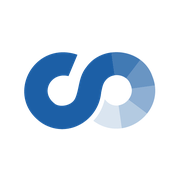
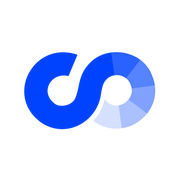
Nova paleta Acorly: azul #0043ff com complementares ciano, verde, magenta e laranja
Logo e ícones recoloridos; site, sistema, e-mails, PDFs e artes dos posts na nova cor.

Claude-Session: https://claude.ai/code/session_01VvQn5qUHzGNJDi8bKtyQpx

Changed region(s): [[0.1111, 0.2778, 0.8611, 0.7222]]

diff --git a/web/src/styles.css b/web/src/styles.css
@@ -1,8 +1,10 @@
 :root {
-  --navy: #0b2545; --navy-2: #13315c; --azul: #1d5fa7; --azul-claro: #e8f0fb;
+  --navy: #001452; --navy-2: #00227f; --azul: #0043ff; --azul-claro: #e6edff;
   --bg: #f5f7fa; --card: #ffffff; --borda: #e2e8f0; --borda-forte: #cbd5e1;
   --texto: #1f2937; --texto-2: #4b5563; --texto-3: #6b7280;
-  --ok: #15803d; --ok-bg: #e7f6ec; --alerta: #b45309; --alerta-bg: #fdf3e2; --critico: #b91c1c; --critico-bg: #fdecec; --info: #1d5fa7; --info-bg: #e8f0fb;
+  --ok: #15803d; --ok-bg: #e7f6ec; --alerta: #b45309; --alerta-bg: #fdf3e2; --critico: #b91c1c; --critico-bg: #fdecec; --info: #0043ff; --info-bg: #e6edff;
+  --ciano: #31d6ff; --verde-vivo: #31ff5e; --magenta: #ff31ff; --laranja: #ff8c00;
+  --faixa-marca: linear-gradient(90deg, #0043ff 0%, #31d6ff 30%, #31ff5e 52%, #ff31ff 76%, #ff8c00 100%);
   --raio: 10px; --sombra: 0 1px 2px rgba(16, 24, 40, .06), 0 1px 3px rgba(16, 24, 40, .08);
   --fonte: system-ui, -apple-system, "Segoe UI", Roboto, "Helvetica Neue", Arial, sans-serif;
   color-scheme: light;
@@ -41,10 +43,10 @@ p { margin: 0 0 8px; }
 
 /* Layout */
 .app { display: grid; grid-template-columns: 248px minmax(0, 1fr); min-height: 100%; }
-.lateral { background: var(--navy); color: #cfd8e6; padding: 16px 12px; position: sticky; top: 0; height: 100vh; overflow-y: auto; display: flex; flex-direction: column; gap: 16px; }
+.lateral { background: var(--navy); color: #ccd7ff; padding: 16px 12px; position: sticky; top: 0; height: 100vh; overflow-y: auto; display: flex; flex-direction: column; gap: 16px; }
 .lateral nav { display: flex; flex-direction: column; gap: 2px; }
-.lateral .secao { font-size: 11px; text-transform: uppercase; letter-spacing: .06em; color: #8fa3c0; margin: 12px 10px 4px; }
-.lateral a { color: #dbe4f0; padding: 8px 10px; border-radius: 8px; display: flex; align-items: center; justify-content: space-between; gap: 8px; }
+.lateral .secao { font-size: 11px; text-transform: uppercase; letter-spacing: .06em; color: #8fa6e6; margin: 12px 10px 4px; }
+.lateral a { color: #dde6ff; padding: 8px 10px; border-radius: 8px; display: flex; align-items: center; justify-content: space-between; gap: 8px; }
 .lateral a:hover { background: var(--navy-2); text-decoration: none; }
 .lateral a.ativo { background: var(--azul); color: #fff; }
 .principal { display: flex; flex-direction: column; min-width: 0; }
@@ -78,7 +80,7 @@ p { margin: 0 0 8px; }
 .btn:hover { background: #f8fafc; text-decoration: none; }
 .btn:disabled { opacity: .55; cursor: not-allowed; }
 .btn.prim { background: var(--azul); border-color: var(--azul); color: #fff; }
-.btn.prim:hover { background: #174f8c; }
+.btn.prim:hover { background: #0036cc; }
 .btn.ok { background: var(--ok); border-color: var(--ok); color: #fff; }
 .btn.perigo { background: #fff; border-color: #f1b4b4; color: var(--critico); }
 .btn.perigo.cheio { background: var(--critico); color: #fff; border-color: var(--critico); }
@@ -95,7 +97,7 @@ p { margin: 0 0 8px; }
 .aviso.ok { background: var(--ok-bg); border-color: #b7e2c4; color: #14532d; }
 .aviso.alerta { background: var(--alerta-bg); border-color: #f3d39b; color: #78350f; }
 .aviso.critico { background: var(--critico-bg); border-color: #f5baba; color: #7f1d1d; }
-.aviso.info { background: var(--info-bg); border-color: #bcd3f0; color: #0b3a6e; }
+.aviso.info { background: var(--info-bg); border-color: #b3c6ff; color: #002a99; }
 
 /* Formulários */
 .campo { display: flex; flex-direction: column; gap: 4px; min-width: 0; }
@@ -104,7 +106,7 @@ p { margin: 0 0 8px; }
 .campo .erro { font-size: 12px; color: var(--critico); }
 input, select, textarea { font: inherit; color: inherit; height: 36px; border: 1px solid var(--borda-forte); border-radius: 8px; padding: 0 10px; background: #fff; width: 100%; min-width: 0; }
 textarea { height: auto; min-height: 80px; padding: 8px 10px; resize: vertical; }
-input:focus, select:focus, textarea:focus { outline: 2px solid #9ec1ea; border-color: var(--azul); }
+input:focus, select:focus, textarea:focus { outline: 2px solid #80a1ff; border-color: var(--azul); }
 input[type=checkbox], input[type=radio] { width: 16px; height: 16px; accent-color: var(--azul); }
 .check { display: flex; gap: 8px; align-items: flex-start; font-weight: 400; color: var(--texto); }
 .check input { margin-top: 2px; flex: none; }
@@ -157,7 +159,7 @@ td.num, th.num { text-align: right; font-variant-numeric: tabular-nums; white-sp
 /* Notificações */
 .pop { position: absolute; right: 0; top: 44px; width: min(380px, calc(100vw - 24px)); background: #fff; border: 1px solid var(--borda); border-radius: 10px; box-shadow: 0 12px 30px rgba(0, 0, 0, .15); max-height: 70vh; overflow: auto; z-index: 50; }
 .pop .item { padding: 10px 14px; border-bottom: 1px solid var(--borda); cursor: pointer; }
-.pop .item.nova { background: #f5f9ff; }
+.pop .item.nova { background: #f2f6ff; }
 .pop .item:hover { background: #f1f5f9; }
 
 /* Linha do tempo */
@@ -167,7 +169,7 @@ td.num, th.num { text-align: right; font-variant-numeric: tabular-nums; white-sp
 
 /* Telas de acesso */
 .acesso { min-height: 100%; display: grid; grid-template-columns: 1fr 1fr; }
-.acesso .lado { background: linear-gradient(160deg, var(--navy), #1a4a86); color: #dbe4f0; padding: 48px; display: flex; flex-direction: column; justify-content: space-between; }
+.acesso .lado { background: linear-gradient(160deg, var(--navy), #0036cc); color: #dde6ff; padding: 48px; display: flex; flex-direction: column; justify-content: space-between; }
 .acesso .lado h2 { color: #fff; font-size: 26px; line-height: 1.25; margin: 0 0 12px; }
 .acesso .lado ul { padding-left: 18px; margin: 0; display: grid; gap: 8px; }
 .acesso .form { display: grid; place-items: center; padding: 32px 16px; }
@@ -202,15 +204,18 @@ td.num, th.num { text-align: right; font-variant-numeric: tabular-nums; white-sp
 .site-nav a { color: var(--texto-2); font-weight: 600; font-size: 14px; }
 .site-nav a:hover { color: var(--azul); text-decoration: none; }
 .site-menu { display: none; }
-.site-hero { background: linear-gradient(160deg, var(--navy) 0%, #143a6b 60%, #1a4a86 100%); color: #dbe4f0; }
+.site-hero { background: radial-gradient(circle at 88% 12%, rgba(49, 214, 255, .28), transparent 42%), radial-gradient(circle at 8% 100%, rgba(255, 49, 255, .16), transparent 40%), linear-gradient(160deg, var(--navy) 0%, #0030b8 55%, #0043ff 100%); color: #dde6ff; }
+.site-topo::after { content: ''; position: absolute; left: 0; right: 0; bottom: -1px; height: 3px; background: var(--faixa-marca); }
+.lateral { border-top: 4px solid transparent; border-image: var(--faixa-marca) 1; }
+.acesso .lado { border-top: 4px solid transparent; border-image: var(--faixa-marca) 1; }
 .site-hero-in { display: grid; grid-template-columns: minmax(0, 1.1fr) minmax(0, .9fr); gap: 48px; align-items: center; padding-block: 72px 80px; }
 .site-hero h1 { color: #fff; font-size: clamp(30px, 4.4vw, 46px); line-height: 1.12; letter-spacing: -.02em; margin: 14px 0 18px; text-wrap: balance; }
 .site-hero p { font-size: 17px; line-height: 1.6; max-width: 58ch; margin: 0 0 26px; }
-.site-selo { display: inline-block; background: rgba(255, 255, 255, .12); color: #fff; border: 1px solid rgba(255, 255, 255, .25); padding: 5px 12px; border-radius: 999px; font-size: 12px; font-weight: 700; letter-spacing: .04em; text-transform: uppercase; }
+.site-selo { display: inline-block; background: rgba(49, 214, 255, .14); color: #fff; border: 1px solid rgba(49, 214, 255, .55); padding: 5px 12px; border-radius: 999px; font-size: 12px; font-weight: 700; letter-spacing: .04em; text-transform: uppercase; }
 .site-btn-grande { height: 46px; padding: 0 22px; font-size: 15px; }
 .site-btn-claro { background: transparent; color: #fff; border-color: rgba(255, 255, 255, .5); }
 .site-btn-claro:hover { background: rgba(255, 255, 255, .1); }
-.site-nota { font-size: 13px !important; color: #a9bad3; margin-top: 18px !important; }
+.site-nota { font-size: 13px !important; color: #aabdf5; margin-top: 18px !important; }
 .site-previa { background: #fff; border-radius: 14px; box-shadow: 0 30px 60px rgba(0, 0, 0, .35); overflow: hidden; color: var(--texto); }
 .site-previa-barra { display: flex; align-items: center; gap: 6px; padding: 10px 14px; background: #eef2f7; border-bottom: 1px solid var(--borda); }
 .site-previa-barra span { width: 10px; height: 10px; border-radius: 50%; background: #cbd5e1; }
@@ -226,7 +231,7 @@ td.num, th.num { text-align: right; font-variant-numeric: tabular-nums; white-sp
 .site-previa-lista li:last-child { border-bottom: 0; }
 .site-secao { padding-block: 80px; }
 .site-secao-alt { background: var(--bg); }
-.site-secao-escura { background: var(--navy); color: #cfd8e6; }
+.site-secao-escura { background: var(--navy); color: #ccd7ff; }
 .site-secao-escura .site-titulo, .site-secao-escura h3 { color: #fff; }
 .site-titulo { font-size: clamp(24px, 3vw, 32px); letter-spacing: -.015em; margin: 0 0 12px; text-wrap: balance; }
 .site-sub { color: var(--texto-2); font-size: 16px; max-width: 64ch; margin: 0 0 32px; line-height: 1.6; }
@@ -244,7 +249,7 @@ td.num, th.num { text-align: right; font-variant-numeric: tabular-nums; white-sp
 .site-check { list-style: none; padding: 0; margin: 4px 0 8px; display: grid; gap: 8px; }
 .site-check li { padding-left: 24px; position: relative; line-height: 1.45; }
 .site-check li::before { content: '✓'; position: absolute; left: 0; color: var(--ok); font-weight: 800; }
-.site-video-player { width: 100%; max-width: 880px; aspect-ratio: 16 / 9; border-radius: 12px; border: 1px solid var(--borda); box-shadow: 0 12px 30px rgba(11, 37, 69, .12); background: #0b2545; margin: 8px auto 12px; display: block; }
+.site-video-player { width: 100%; max-width: 880px; aspect-ratio: 16 / 9; border-radius: 12px; border: 1px solid var(--borda); box-shadow: 0 12px 30px rgba(0, 20, 82, .12); background: #001452; margin: 8px auto 12px; display: block; }
 .conteudo-card { text-align: left; display: flex; flex-direction: column; gap: 8px; cursor: pointer; font: inherit; color: inherit; border: 1px solid var(--borda); }
 .conteudo-card:hover { border-color: var(--azul); }
 .conteudo-previas { display: flex; gap: 10px; overflow-x: auto; padding-bottom: 6px; }
@@ -255,8 +260,8 @@ td.num, th.num { text-align: right; font-variant-numeric: tabular-nums; white-sp
 .site-planos { display: grid; grid-template-columns: repeat(auto-fit, minmax(230px, 1fr)); gap: 20px; align-items: stretch; }
 .site-plano { position: relative; }
 .site-plano .btn { margin-top: auto; }
-.site-plano.recomendado { border: 2px solid var(--azul); box-shadow: 0 12px 30px rgba(29, 95, 167, .15); }
-.site-selo-plano { position: absolute; top: -12px; left: 24px; background: var(--azul); color: #fff; font-size: 12px; font-weight: 700; padding: 3px 10px; border-radius: 999px; }
+.site-plano.recomendado { border: 2px solid var(--azul); box-shadow: 0 12px 30px rgba(0, 67, 255, .15); }
+.site-selo-plano { position: absolute; top: -12px; left: 24px; background: var(--laranja); color: #1a1200; font-size: 12px; font-weight: 700; padding: 3px 10px; border-radius: 999px; }
 .site-valor { font-size: 32px; font-weight: 800; letter-spacing: -.02em; font-variant-numeric: tabular-nums; }
 .site-valor small { font-size: 14px; font-weight: 500; color: var(--texto-3); }
 .site-nota-centro { text-align: center; color: var(--texto-3); margin-top: 24px; }

diff --git a/src/core/emailComercial.js b/src/core/emailComercial.js
@@ -24,7 +24,7 @@ export function renderizarEmailComercial({ corpo, urlBase = '', rodape = '', sai
     if (!l) { fechaLista(); texto.push(''); continue; }
     if (l.startsWith('## ')) {
       fechaLista();
-      html.push(`<h2 style="font-size:17px;color:#0b2545;margin:22px 0 10px">${inline(l.slice(3))}</h2>`);
+      html.push(`<h2 style="font-size:17px;color:#001452;margin:22px 0 10px">${inline(l.slice(3))}</h2>`);
       texto.push(l.slice(3).toUpperCase());
     } else if (l.startsWith('- ')) {
       fechaParagrafo();
@@ -34,8 +34,8 @@ export function renderizarEmailComercial({ corpo, urlBase = '', rodape = '', sai
       fechaLista();
       const [, tipo, rotulo, url] = botao;
       html.push(tipo === 'botao'
-        ? `<p style="margin:18px 0"><a href="${esc(url.trim())}" style="background:#1d5fa7;color:#fff;padding:12px 22px;border-radius:8px;text-decoration:none;font-weight:bold;display:inline-block">${esc(rotulo.trim())}</a></p>`
-        : `<p style="margin:0 0 14px"><a href="${esc(url.trim())}" style="color:#1d5fa7;font-weight:bold">${esc(rotulo.trim())} →</a></p>`);
+        ? `<p style="margin:18px 0"><a href="${esc(url.trim())}" style="background:#0043ff;color:#fff;padding:12px 22px;border-radius:8px;text-decoration:none;font-weight:bold;display:inline-block">${esc(rotulo.trim())}</a></p>`
+        : `<p style="margin:0 0 14px"><a href="${esc(url.trim())}" style="color:#0043ff;font-weight:bold">${esc(rotulo.trim())} →</a></p>`);
       texto.push(`${rotulo.trim()}: ${url.trim()}`);
     } else {
       if (lista) fechaLista();
@@ -48,7 +48,8 @@ export function renderizarEmailComercial({ corpo, urlBase = '', rodape = '', sai
   const corpoHtml = `<!doctype html><html><body style="margin:0;background:#f5f7fa;font-family:Arial,Helvetica,sans-serif;color:#1f2937">
 <table width="100%" cellpadding="0" cellspacing="0"><tr><td align="center" style="padding:24px">
 <table width="620" cellpadding="0" cellspacing="0" style="max-width:620px;background:#fff;border-radius:12px;overflow:hidden;border:1px solid #e2e8f0">
-<tr><td style="background:linear-gradient(135deg,#0b2545,#1d5fa7);background-color:#0b2545;color:#fff;padding:20px 28px">${logo}</td></tr>
+<tr><td style="background:linear-gradient(135deg,#001452,#0043ff);background-color:#001452;color:#fff;padding:20px 28px">${logo}</td></tr>
+<tr><td style="height:4px;line-height:4px;font-size:0;background:#0043ff;background-image:linear-gradient(90deg,#0043ff,#31d6ff,#31ff5e,#ff31ff,#ff8c00)">&nbsp;</td></tr>
 <tr><td style="padding:26px 28px">${html.join('\n')}</td></tr>
 <tr><td style="padding:14px 28px;font-size:11px;color:#6b7280;border-top:1px solid #e2e8f0">${esc(rodape)}${sair ? `<br><a href="${esc(sair)}" style="color:#6b7280">Não quero mais receber e-mails comerciais da Acorly</a>` : ''}</td></tr>
 </table></td></tr></table></body></html>`;

diff --git a/src/server/email.js b/src/server/email.js
@@ -54,10 +54,11 @@ export function criarEmail({ config, transporte, urlBase = '', env = process.env
     const html = `<!doctype html><html><body style="margin:0;background:#f5f7fa;font-family:Arial,Helvetica,sans-serif;color:#1f2937">
 <table width="100%" cellpadding="0" cellspacing="0"><tr><td align="center" style="padding:24px">
 <table width="560" cellpadding="0" cellspacing="0" style="background:#fff;border-radius:10px;overflow:hidden;border:1px solid #e2e8f0">
-<tr><td style="background:#0b2545;color:#fff;padding:16px 24px;font-weight:bold;font-size:16px">${urlBase ? `<img src="${urlBase}/email-logo.png" alt="Acorly" height="32" style="display:block;height:32px;border:0">` : 'Acorly'}</td></tr>
+<tr><td style="background:#001452;color:#fff;padding:16px 24px;font-weight:bold;font-size:16px">${urlBase ? `<img src="${urlBase}/email-logo.png" alt="Acorly" height="32" style="display:block;height:32px;border:0">` : 'Acorly'}</td></tr>
+<tr><td style="height:4px;line-height:4px;font-size:0;background:#0043ff;background-image:linear-gradient(90deg,#0043ff,#31d6ff,#31ff5e,#ff31ff,#ff8c00)">&nbsp;</td></tr>
 <tr><td style="padding:24px"><h1 style="font-size:18px;margin:0 0 12px">${esc(titulo)}</h1>
 ${paragrafos.map((p) => `<p style="font-size:14px;line-height:1.5;margin:0 0 12px">${esc(p)}</p>`).join('')}
-${botao ? `<p style="margin:20px 0"><a href="${esc(botao.url)}" style="background:#1d5fa7;color:#fff;padding:10px 18px;border-radius:8px;text-decoration:none;font-weight:bold">${esc(botao.texto)}</a></p><p style="font-size:12px;color:#6b7280;word-break:break-all">Ou copie o endereço: ${esc(botao.url)}</p>` : ''}
+${botao ? `<p style="margin:20px 0"><a href="${esc(botao.url)}" style="background:#0043ff;color:#fff;padding:10px 18px;border-radius:8px;text-decoration:none;font-weight:bold">${esc(botao.texto)}</a></p><p style="font-size:12px;color:#6b7280;word-break:break-all">Ou copie o endereço: ${esc(botao.url)}</p>` : ''}
 </td></tr><tr><td style="padding:12px 24px;font-size:11px;color:#6b7280;border-top:1px solid #e2e8f0">Acorly · HS Recuperação de Crédito. Mensagem automática, não responda este e-mail.</td></tr></table></td></tr></table></body></html>`;
     const texto = [titulo, '', ...paragrafos, ...(botao ? ['', `${botao.texto}: ${botao.url}`] : [])].join('\n');
     return { html, texto };

diff --git a/web/src/pages/conteudo.jsx b/web/src/pages/conteudo.jsx
@@ -35,9 +35,12 @@ export async function desenharArte({ rede, titulo, texto, indice = 0, total = 1 
   const W = rede === 'INSTAGRAM' ? 1080 : 1200, H = rede === 'INSTAGRAM' ? 1350 : 1200;
   const c = document.createElement('canvas'); c.width = W; c.height = H;
   const g = c.getContext('2d');
-  const grad = g.createLinearGradient(0, 0, W, H); grad.addColorStop(0, '#0b2545'); grad.addColorStop(1, '#1d5fa7');
+  const grad = g.createLinearGradient(0, 0, W, H); grad.addColorStop(0, '#001452'); grad.addColorStop(1, '#0043ff');
   g.fillStyle = grad; g.fillRect(0, 0, W, H);
-  g.fillStyle = 'rgba(255,255,255,0.06)'; g.beginPath(); g.arc(W - 120, H * 0.28, W * 0.38, 0, Math.PI * 2); g.fill();
+  const brilho = g.createRadialGradient(W - 120, H * 0.28, 0, W - 120, H * 0.28, W * 0.45); brilho.addColorStop(0, 'rgba(49,214,255,0.35)'); brilho.addColorStop(1, 'rgba(49,214,255,0)');
+  g.fillStyle = brilho; g.fillRect(0, 0, W, H);
+  const faixa = g.createLinearGradient(0, 0, W, 0); ['#0043ff', '#31d6ff', '#31ff5e', '#ff31ff', '#ff8c00'].forEach((cor, i) => faixa.addColorStop(i / 4, cor));
+  g.fillStyle = faixa; g.fillRect(0, H - 18, W, 18);
   const logo = await carregarLogo();
   if (logo) { const lh = 64, lw = (logo.width / logo.height) * lh; g.drawImage(logo, 80, 80, lw, lh); }
   g.fillStyle = 'rgba(255,255,255,0.85)'; g.font = '600 32px Inter, Arial, sans-serif'; g.textAlign = 'right';
@@ -52,7 +55,7 @@ export async function desenharArte({ rede, titulo, texto, indice = 0, total = 1 
   const ls = quebrar(g, texto, largura);
   const alturaBloco = lt.length * tam * 1.12 + (ls.length ? 40 + ls.length * 56 : 0);
   let y = Math.max(260, (H - alturaBloco) / 2);
-  g.fillStyle = '#f59e0b'; g.fillRect(80, y - 40, 120, 10);
+  g.fillStyle = '#ff8c00'; g.fillRect(80, y - 40, 120, 10);
   g.fillStyle = '#ffffff'; g.font = `800 ${tam}px Inter, Arial, sans-serif`;
   for (const l of lt) { y += tam * 1.12; g.fillText(l, 80, y); }
   if (ls.length) {

diff --git a/web/src/prestacaoPdf.js b/web/src/prestacaoPdf.js
@@ -10,9 +10,9 @@ export function montarPDFPrestacao(p) {
   const rel = JSON.parse(p.relatorio);
   const doc = new jsPDF();
   const azul = [29, 95, 167];
-  const titulo = (t, y) => { doc.setFontSize(12); doc.setFont('helvetica', 'bold'); doc.setTextColor(11, 37, 69); doc.text(t, 14, y); doc.setFont('helvetica', 'normal'); doc.setTextColor(31, 41, 55); };
+  const titulo = (t, y) => { doc.setFontSize(12); doc.setFont('helvetica', 'bold'); doc.setTextColor(0, 20, 82); doc.text(t, 14, y); doc.setFont('helvetica', 'normal'); doc.setTextColor(31, 41, 55); };
   const proximo = (extra = 12) => { let y = doc.lastAutoTable.finalY + extra; if (y > 265) { doc.addPage(); y = 20; } return y; };
-  doc.setFillColor(11, 37, 69); doc.rect(0, 0, 210, 28, 'F');
+  doc.setFillColor(0, 20, 82); doc.rect(0, 0, 210, 28, 'F');
   doc.setTextColor(255); doc.setFontSize(16); doc.setFont('helvetica', 'bold'); doc.text('Acorly', 14, 13);
   doc.setFontSize(10); doc.setFont('helvetica', 'normal'); doc.text('Prestação de contas — cobrança gerenciada · HS Recuperação de Crédito', 14, 21);
   doc.setTextColor(31, 41, 55); doc.setFontSize(11);

diff --git a/src/server/descadastro.js b/src/server/descadastro.js
@@ -32,6 +32,6 @@ export function paginaDescadastro({ titulo, texto, botao = null }) {
   return `<!doctype html><html lang="pt-BR"><head><meta charset="utf-8"><meta name="viewport" content="width=device-width,initial-scale=1"><title>${esc(titulo)}</title>
 <style>body{margin:0;font-family:Arial,Helvetica,sans-serif;background:#f5f7fa;color:#1f2937;display:grid;place-items:center;min-height:100vh;padding:16px;box-sizing:border-box}
 .c{background:#fff;border:1px solid #e2e8f0;border-radius:12px;padding:28px;max-width:440px;width:100%}h1{font-size:20px;margin:0 0 12px}p{line-height:1.5;margin:0 0 16px}
-button{background:#1d5fa7;color:#fff;border:0;border-radius:8px;padding:12px 18px;font-size:15px;font-weight:bold;cursor:pointer;width:100%}</style></head>
+button{background:#0043ff;color:#fff;border:0;border-radius:8px;padding:12px 18px;font-size:15px;font-weight:bold;cursor:pointer;width:100%}</style></head>
 <body><div class="c"><h1>${esc(titulo)}</h1><p>${esc(texto)}</p>${botao ? `<form method="post"><button type="submit">${esc(botao)}</button></form>` : ''}</div></body></html>`;
 }

diff --git a/web/src/pages/painel.jsx b/web/src/pages/painel.jsx
@@ -6,8 +6,8 @@ import { brl, pct, rotulo, data } from '../format.js';
 
 const MESES = ['jan', 'fev', 'mar', 'abr', 'mai', 'jun', 'jul', 'ago', 'set', 'out', 'nov', 'dez'];
 const SERIES = [
-  { chave: 'recuperado_confirmado_centavos', nome: 'Recebido e confirmado', cor: '#15803d' },
-  { chave: 'informado_centavos', nome: 'Total informado pelos devedores', cor: '#1d5fa7' },
+  { chave: 'recuperado_confirmado_centavos', nome: 'Recebido e confirmado', cor: '#0043ff' },
+  { chave: 'informado_centavos', nome: 'Total informado pelos devedores', cor: '#31d6ff' },
 ];
 const compacto = (c) => {
   const v = c / 100;

diff --git a/web/src/pages/seguranca.jsx b/web/src/pages/seguranca.jsx
@@ -20,7 +20,7 @@ export function Configurar2FA({ aoConcluir }) {
     try {
       const d = await auth.iniciar2fa();
       setDados(d);
-      setQr(await QRCode.toDataURL(d.otpauth, { margin: 1, width: 220, color: { dark: '#0b2545', light: '#ffffff' } }));
+      setQr(await QRCode.toDataURL(d.otpauth, { margin: 1, width: 220, color: { dark: '#001452', light: '#ffffff' } }));
       setEtapa('ler');
     } catch (e) { toast.erro(e); } finally { setEnviando(false); }
   };

diff --git a/web/index.html b/web/index.html
@@ -3,7 +3,7 @@
   <head>
     <meta charset="UTF-8" />
     <meta name="viewport" content="width=device-width, initial-scale=1.0" />
-    <meta name="theme-color" content="#0B2545" />
+    <meta name="theme-color" content="#001452" />
     <link rel="icon" href="/favicon.png" type="image/png" />
     <link rel="apple-touch-icon" href="/apple-touch-icon.png" />
     <title>Acorly | Recuperação de crédito</title>
